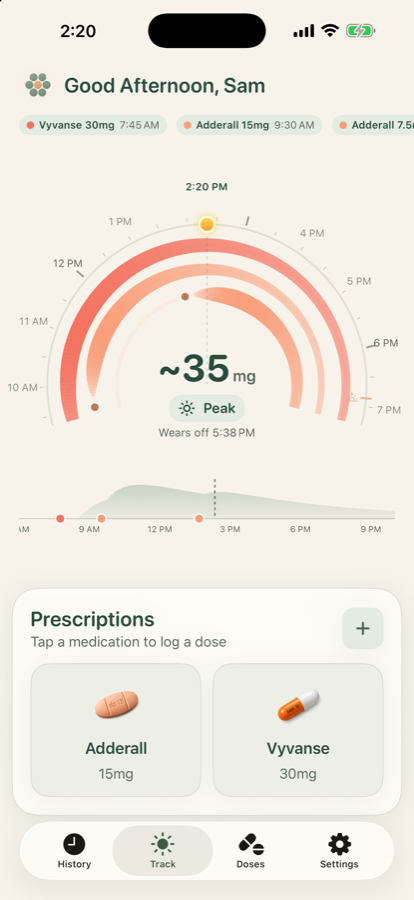
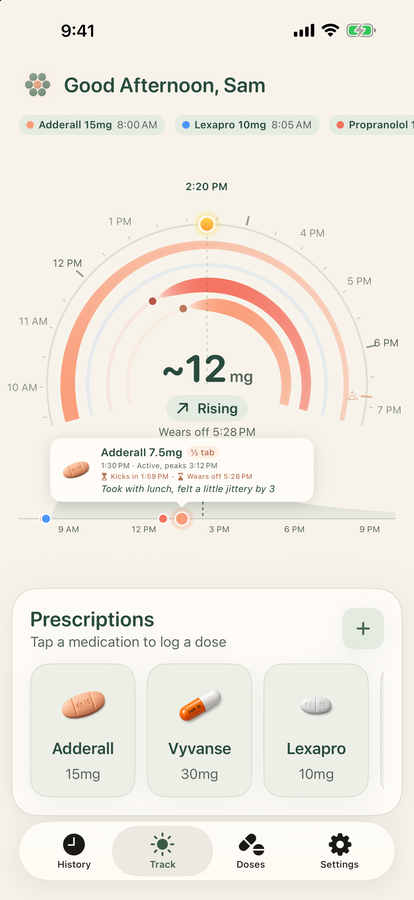
Landing: new hero screenshots, notes card, companion medication copy
Claude-Session: https://claude.ai/code/session_01S3d6SvsrAGsXRzoCbWeEtV

diff --git a/index.html b/index.html
@@ -52,21 +52,22 @@ footer a{color:var(--primary)}
 <section class="hero">
   <div>
     <h1>Know what's active.<br>Know what's left.</h1>
-    <p class="sub">Halftab is a calm dose tracker for ADHD medication. Log half a tab in two taps, watch each dose peak and fade, and always see what remains of today's prescription.</p>
+    <p class="sub">Halftab is a calm dose tracker for ADHD medication. Log half a tab in two taps, add a note, watch each dose peak and fade, and always see what remains of today's prescription.</p>
     <a class="cta soon" href="#" id="cta">Coming soon to the App Store</a>
     <p class="note">No account. No ads. Your data stays on your device and in your own iCloud.</p>
   </div>
   <div class="phones">
-    <img src="/hero-rings.png" alt="Halftab rings view showing three doses on a 24-hour clock">
-    <img src="/hero-log.png" alt="Halftab log sheet with a half-tab selected">
-    <img src="/hero-arc.png" alt="Halftab sun arc view">
+    <img src="/hero-arc.png" alt="Halftab sun arc view with a dose callout showing kick-in and wear-off times">
+    <img src="/hero-log.png" alt="Halftab log sheet with a note and timing estimate">
+    <img src="/hero-rings.png" alt="Halftab rings view showing doses on a 24-hour clock">
   </div>
 </section>
 <section class="grid">
   <div class="card"><h3>Split tabs</h3><p>Quarter, half, three-quarters, or one and a half. The milligrams follow, so your daily total is always right.</p></div>
-  <div class="card"><h3>See what's active</h3><p>Every dose glows along a sun arc that follows the day from sunrise to sunset, or, with Plus, as a ring on a 24-hour clock.</p></div>
+  <div class="card"><h3>See what's active</h3><p>Every dose glows along a sun arc that follows the day from sunrise to sunset, or, with Plus, as a ring on a 24-hour clock. Tap any dose to see when it kicks in and wears off.</p></div>
+  <div class="card"><h3>Notes and edits</h3><p>Add a note to any dose: how it felt, what you ate, why it was late. Tap a dose anywhere to fix the time or amount later.</p></div>
   <div class="card"><h3>Know what's left</h3><p>Enter your prescription once. Halftab tracks prescribed, taken, and remaining in milligrams and tabs.</p></div>
-  <div class="card"><h3>Every ADHD medication</h3><p>Fifty products with every strength and illustrated pill artwork, from Adderall to Strattera, plus the medications you take alongside them. Anything else, add your own.</p></div>
+  <div class="card"><h3>Every ADHD medication, and what goes with it</h3><p>Fifty products with every strength and illustrated pill artwork, from Adderall to Strattera. Plus antidepressants, anxiety and sleep medications people take alongside them. Anything else, add your own.</p></div>
   <div class="card"><h3>Estimated timing</h3><p>Optional estimates for when a dose kicks in, wears off, and clears enough to sleep.</p></div>
   <div class="card"><h3>Private by design</h3><p>No sign-up, no analytics, no server. Delete everything with one tap.</p></div>
 </section>
@@ -78,7 +79,7 @@ footer a{color:var(--primary)}
       <div class="tier-price">$0</div>
       <ul>
         <li>One prescription</li>
-        <li>Unlimited dose logging, split tabs included</li>
+        <li>Unlimited dose logging, split tabs and notes included</li>
         <li>Sun arc timeline</li>
         <li>Daily totals: prescribed, taken, remaining</li>
         <li>History calendar</li>
